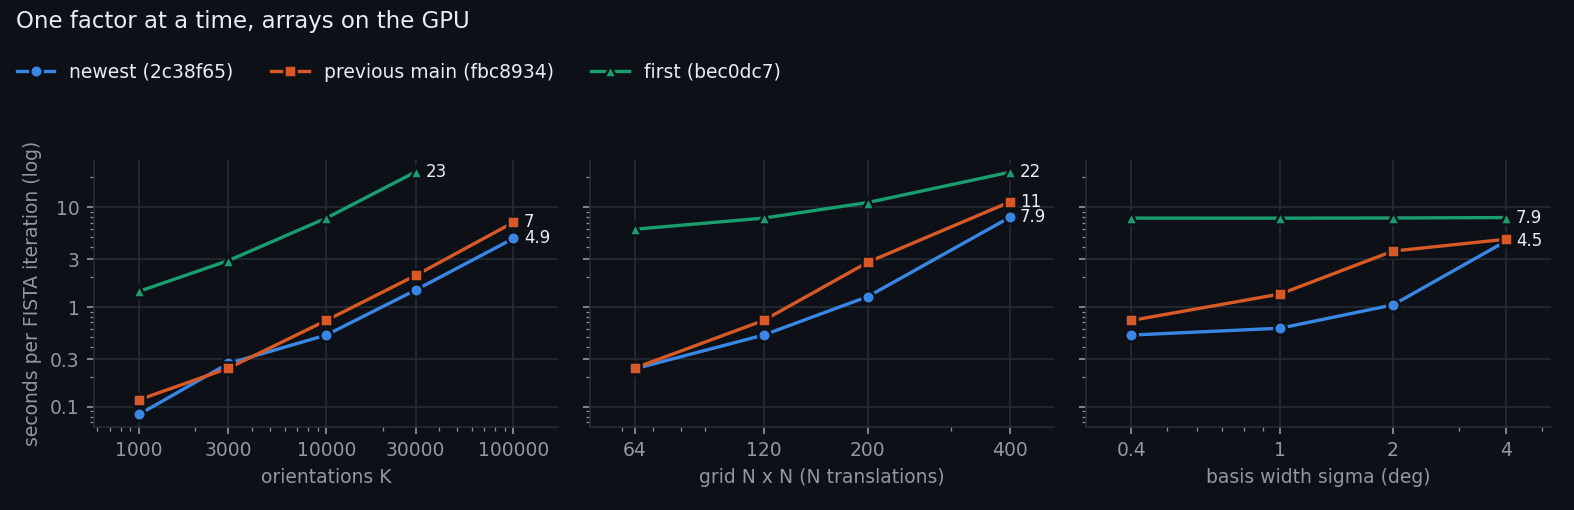
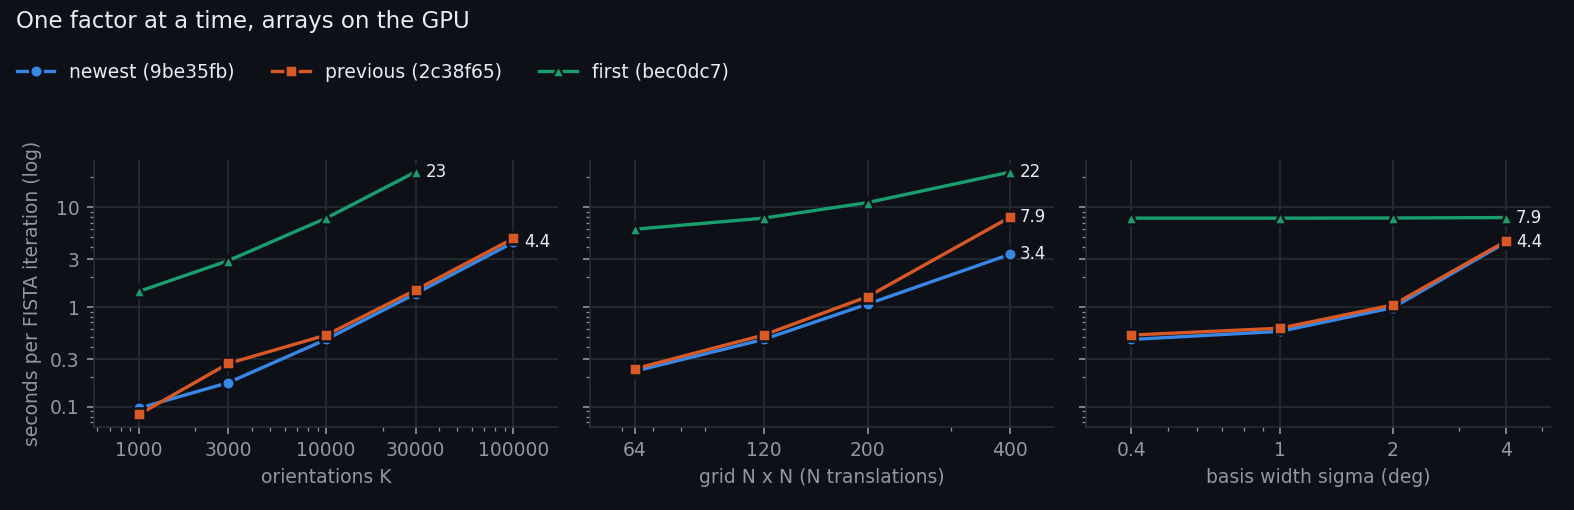
Benchmark results for 9be35fb (tiled projector), report compares newest, previous and first

diff --git a/benchmarks/report.py b/benchmarks/report.py
@@ -27,8 +27,9 @@ LABELS = {
     "fbc8934": "NumPy API, (K, Ny, Nx) layout",
     "2c38f65": "sparse PF matrix generated directly, faster sparse products, store what fits, "
                "Radon in slices, larger batches",
+    "9be35fb": "tiled Radon projections (image rows / sinogram bins staged in local memory); "
+               "at least 4 batches in the sparse modes",
 }
-SHORT = {"bec0dc7": "first (bec0dc7)", "fbc8934": "previous main (fbc8934)"}
 
 SWEEPS = [  # sweep, varied parameter, label, unit
     ("K", "K", "orientations K", ""),
@@ -155,8 +156,11 @@ def figures(rows, idx, versions):
     os.makedirs(FIG, exist_ok=True)
     shas = [v["sha"] for v in versions]
     newest = shas[-1]
-    picks = [newest] + [s for s in ("fbc8934", "bec0dc7") if s in shas and s != newest]  # newest: slot 1
-    name = lambda s: SHORT.get(s, f"newest ({s})" if s == newest else s)
+    picks = [newest] + ([shas[-2]] if len(shas) > 1 else []) + ([shas[0]] if len(shas) > 2 else [])  # newest: slot 1
+    role = {newest: "newest", shas[0]: "first"}
+    if len(shas) > 1:
+        role[shas[-2]] = "previous"
+    name = lambda s: f"{role.get(s, '')} ({s})".strip()
     num = FuncFormatter(lambda y, _: f"{y:g}")
 
     for mode_name, th in THEMES.items():

diff --git a/benchmarks/RESULTS.md b/benchmarks/RESULTS.md
@@ -10,6 +10,7 @@ Speed and peak memory of diffractom's texture-tomography reconstruction across v
 
 | version | date | what changed |
 |---|---|---|
+| `9be35fb` | 2026-10-02 | tiled Radon projections (image rows / sinogram bins staged in local memory); at least 4 batches in the sparse modes |
 | `2c38f65` | 2026-10-02 | sparse PF matrix generated directly, faster sparse products, store what fits, Radon in slices, larger batches |
 | `fbc8934` | 2026-10-02 | NumPy API, (K, Ny, Nx) layout |
 | `56fe181` | 2026-10-01 | FISTA coefficients streamed from host memory |
@@ -19,38 +20,38 @@ Speed and peak memory of diffractom's texture-tomography reconstruction across v
 | `5a402f0` | 2026-09-28 | sparse PF matrix (`pf_mode="auto"`) |
 | `bec0dc7` | 2026-09-28 | before the speed-ups: dense PF matrix only |
 
-## Newest (`2c38f65`) against the previous main (`fbc8934`)
+## Newest (`9be35fb`) against the previous main (`2c38f65`)
 
 Seconds per FISTA iteration; speed-up = previous / newest (below 1: slower).
 
 | case | mode | previous | newest | speed-up |
 |---|---|---:|---:|---:|
-| K = 1000, 120 x 120, sigma = 0.4 | gpu | 0.118 | 0.0839 | 1.40x |
-| K = 3000, 120 x 120, sigma = 0.4 | gpu | 0.244 | 0.272 | **0.90x** (slower) |
-| K = 10000, 64 x 64, sigma = 0.4 | gpu | 0.245 | 0.241 | 1.02x |
-| K = 10000, 120 x 120, sigma = 0.4 | gpu | 0.733 | 0.523 | 1.40x |
-| K = 10000, 120 x 120, sigma = 1 | gpu | 1.35 | 0.613 | 2.20x |
-| K = 10000, 120 x 120, sigma = 2 | gpu | 3.63 | 1.05 | 3.46x |
-| K = 10000, 120 x 120, sigma = 4 | gpu | 4.77 | 4.55 | 1.05x |
-| K = 10000, 200 x 200, sigma = 0.4 | gpu | 2.81 | 1.27 | 2.21x |
-| K = 10000, 400 x 400, sigma = 0.4 | gpu | 11.2 | 7.88 | 1.43x |
+| K = 1000, 120 x 120, sigma = 0.4 | gpu | 0.0839 | 0.0969 | **0.87x** (slower) |
+| K = 3000, 120 x 120, sigma = 0.4 | gpu | 0.272 | 0.175 | 1.56x |
+| K = 10000, 64 x 64, sigma = 0.4 | gpu | 0.241 | 0.228 | 1.06x |
+| K = 10000, 120 x 120, sigma = 0.4 | gpu | 0.523 | 0.473 | 1.11x |
+| K = 10000, 120 x 120, sigma = 1 | gpu | 0.613 | 0.57 | 1.07x |
+| K = 10000, 120 x 120, sigma = 2 | gpu | 1.05 | 0.985 | 1.07x |
+| K = 10000, 120 x 120, sigma = 4 | gpu | 4.55 | 4.43 | 1.03x |
+| K = 10000, 200 x 200, sigma = 0.4 | gpu | 1.27 | 1.07 | 1.19x |
+| K = 10000, 400 x 400, sigma = 0.4 | gpu | 7.88 | 3.36 | 2.35x |
 | K = 10000, 600 x 600, sigma = 0.4 | gpu | *array > largest GPU buffer* | *array > largest GPU buffer* |  |
-| K = 30000, 120 x 120, sigma = 0.4 | gpu | 2.07 | 1.48 | 1.40x |
-| K = 100000, 120 x 120, sigma = 0.4 | gpu | 7.05 | 4.86 | 1.45x |
-| K = 100000, 120 x 120, sigma = 1 | gpu | 47.3 | 7.32 | 6.46x |
-| K = 1000, 120 x 120, sigma = 0.4 | stream | 0.282 | 0.372 | **0.76x** (slower) |
-| K = 3000, 120 x 120, sigma = 0.4 | stream | 0.425 | 0.496 | **0.86x** (slower) |
-| K = 10000, 64 x 64, sigma = 0.4 | stream | 0.486 | 0.405 | 1.20x |
-| K = 10000, 120 x 120, sigma = 0.4 | stream | 0.974 | 0.891 | 1.09x |
-| K = 10000, 120 x 120, sigma = 1 | stream | 1.53 | 1.02 | 1.51x |
-| K = 10000, 120 x 120, sigma = 2 | stream | 3.77 | 1.29 | 2.91x |
-| K = 10000, 120 x 120, sigma = 4 | stream | 4.93 | 4.85 | 1.02x |
-| K = 10000, 200 x 200, sigma = 0.4 | stream | 3.4 | 2.13 | 1.59x |
-| K = 10000, 400 x 400, sigma = 0.4 | stream | 12.7 | 10.0 | 1.27x |
-| K = 10000, 600 x 600, sigma = 0.4 | stream | 26.4 | 24.9 | 1.06x |
-| K = 30000, 120 x 120, sigma = 0.4 | stream | 2.58 | 2.06 | 1.26x |
-| K = 100000, 120 x 120, sigma = 0.4 | stream | 8.12 | 6.24 | 1.30x |
-| K = 100000, 120 x 120, sigma = 1 | stream | 48.7 | 7.58 | 6.42x |
+| K = 30000, 120 x 120, sigma = 0.4 | gpu | 1.48 | 1.36 | 1.09x |
+| K = 100000, 120 x 120, sigma = 0.4 | gpu | 4.86 | 4.44 | 1.10x |
+| K = 100000, 120 x 120, sigma = 1 | gpu | 7.32 | 6.94 | 1.06x |
+| K = 1000, 120 x 120, sigma = 0.4 | stream | 0.372 | 0.271 | 1.37x |
+| K = 3000, 120 x 120, sigma = 0.4 | stream | 0.496 | 0.439 | 1.13x |
+| K = 10000, 64 x 64, sigma = 0.4 | stream | 0.405 | 0.39 | 1.04x |
+| K = 10000, 120 x 120, sigma = 0.4 | stream | 0.891 | 0.836 | 1.07x |
+| K = 10000, 120 x 120, sigma = 1 | stream | 1.02 | 0.889 | 1.14x |
+| K = 10000, 120 x 120, sigma = 2 | stream | 1.29 | 1.23 | 1.05x |
+| K = 10000, 120 x 120, sigma = 4 | stream | 4.85 | 4.64 | 1.04x |
+| K = 10000, 200 x 200, sigma = 0.4 | stream | 2.13 | 1.94 | 1.10x |
+| K = 10000, 400 x 400, sigma = 0.4 | stream | 10.0 | 5.31 | 1.89x |
+| K = 10000, 600 x 600, sigma = 0.4 | stream | 24.9 | 10.9 | 2.27x |
+| K = 30000, 120 x 120, sigma = 0.4 | stream | 2.06 | 1.97 | 1.05x |
+| K = 100000, 120 x 120, sigma = 0.4 | stream | 6.24 | 5.72 | 1.09x |
+| K = 100000, 120 x 120, sigma = 1 | stream | 7.58 | 7.2 | 1.05x |
 
 ## Every version on the base case
 
@@ -72,12 +73,13 @@ Seconds per FISTA iteration; the fastest version per column in bold; * the base 
 
 | version | 1000 | 3000 | 10000 * | 30000 | 100000 |
 |---|---:|---:|---:|---:|---:|
-| `2c38f65` | **0.0839** | 0.272 | **0.523** | **1.48** | **4.86** |
+| `9be35fb` | 0.0969 | **0.175** | **0.473** | **1.36** | **4.44** |
+| `2c38f65` | **0.0839** | 0.272 | 0.523 | 1.48 | 4.86 |
 | `fbc8934` | 0.118 | 0.244 | 0.733 | 2.07 | 7.05 |
 | `56fe181` | 0.116 | 0.25 | 0.736 | 2.07 | 7.01 |
 | `18a7a06` | 0.116 | 0.319 | 0.737 | 2.09 | 7.07 |
 | `cce2840` | 0.119 | 0.25 | 0.749 | 2.1 | 47.3 |
-| `2b2b9b5` | 0.113 | **0.236** | 0.715 | 2.01 | 47.3 |
+| `2b2b9b5` | 0.113 | 0.236 | 0.715 | 2.01 | 47.3 |
 | `5a402f0` | 1.19 | 1.39 | 2 | 4.99 | 15.4 |
 | `bec0dc7` | 1.43 | 2.91 | 7.77 | 22.5 | *> 5 min* |
 
@@ -85,12 +87,13 @@ Seconds per FISTA iteration; the fastest version per column in bold; * the base 
 
 | version | 64 | 120 * | 200 | 400 |
 |---|---:|---:|---:|---:|
-| `2c38f65` | 0.241 | **0.523** | **1.27** | **7.88** |
+| `9be35fb` | **0.228** | **0.473** | **1.07** | **3.36** |
+| `2c38f65` | 0.241 | 0.523 | 1.27 | 7.88 |
 | `fbc8934` | 0.245 | 0.733 | 2.81 | 11.2 |
 | `56fe181` | 0.288 | 0.736 | 2.81 | 11.2 |
 | `18a7a06` | 0.25 | 0.737 | 2.83 | 11.3 |
 | `cce2840` | 0.252 | 0.749 | 2.84 | 18.7 |
-| `2b2b9b5` | **0.235** | 0.715 | 2.79 | 18.7 |
+| `2b2b9b5` | 0.235 | 0.715 | 2.79 | 18.7 |
 | `5a402f0` | 0.834 | 2 | 4.45 | 14.5 |
 | `bec0dc7` | 6.01 | 7.77 | 11.1 | 22.4 |
 
@@ -98,7 +101,8 @@ Seconds per FISTA iteration; the fastest version per column in bold; * the base 
 
 | version | 0.4 deg * | 1 deg | 2 deg | 4 deg |
 |---|---:|---:|---:|---:|
-| `2c38f65` | **0.523** | **0.613** | **1.05** | **4.55** |
+| `9be35fb` | **0.473** | **0.57** | **0.985** | **4.43** |
+| `2c38f65` | 0.523 | 0.613 | 1.05 | 4.55 |
 | `fbc8934` | 0.733 | 1.35 | 3.63 | 4.77 |
 | `56fe181` | 0.736 | 1.34 | 3.6 | 4.73 |
 | `18a7a06` | 0.737 | 1.35 | 3.62 | 4.77 |
@@ -120,21 +124,24 @@ Seconds per FISTA iteration; the fastest version per column in bold; * the base 
 
 | version | 1000 | 3000 | 10000 * | 30000 | 100000 |
 |---|---:|---:|---:|---:|---:|
-| `2c38f65` | 0.372 | 0.496 | **0.891** | **2.06** | **6.24** |
-| `fbc8934` | **0.282** | **0.425** | 0.974 | 2.58 | 8.12 |
+| `9be35fb` | **0.271** | 0.439 | **0.836** | **1.97** | **5.72** |
+| `2c38f65` | 0.372 | 0.496 | 0.891 | 2.06 | 6.24 |
+| `fbc8934` | 0.282 | **0.425** | 0.974 | 2.58 | 8.12 |
 
 **grid N x N (N translations)** (K = 10000, sigma = 0.4)
 
 | version | 64 | 120 * | 200 | 400 |
 |---|---:|---:|---:|---:|
-| `2c38f65` | **0.405** | **0.891** | **2.13** | **10.0** |
+| `9be35fb` | **0.39** | **0.836** | **1.94** | **5.31** |
+| `2c38f65` | 0.405 | 0.891 | 2.13 | 10.0 |
 | `fbc8934` | 0.486 | 0.974 | 3.4 | 12.7 |
 
 **basis width sigma** (K = 10000, N = 120)
 
 | version | 0.4 deg * | 1 deg | 2 deg | 4 deg |
 |---|---:|---:|---:|---:|
-| `2c38f65` | **0.891** | **1.02** | **1.29** | **4.85** |
+| `9be35fb` | **0.836** | **0.889** | **1.23** | **4.64** |
+| `2c38f65` | 0.891 | 1.02 | 1.29 | 4.85 |
 | `fbc8934` | 0.974 | 1.53 | 3.77 | 4.93 |
 
 ## Memory
@@ -148,7 +155,8 @@ Seconds per FISTA iteration; the fastest version per column in bold; * the base 
 
 | version | 1000 | 3000 | 10000 * | 30000 | 100000 |
 |---|---:|---:|---:|---:|---:|
-| `2c38f65` | **2.4** | 2.8 | **4.4** | **9.0** | **25.1** |
+| `9be35fb` | **2.2** | 2.8 | **4.4** | **9.0** | **25.1** |
+| `2c38f65` | 2.4 | 2.8 | **4.4** | **9.0** | **25.1** |
 | `fbc8934` | 2.4 | **2.8** | 4.5 | 9.7 | 27.6 |
 | `56fe181` | 2.4 | **2.8** | 4.5 | 9.7 | 27.6 |
 | `18a7a06` | 2.4 | 2.9 | 5.1 | 9.7 | 33.0 |
@@ -161,6 +169,7 @@ Seconds per FISTA iteration; the fastest version per column in bold; * the base 
 
 | version | 1000 | 3000 | 10000 * | 30000 | 100000 |
 |---|---:|---:|---:|---:|---:|
+| `9be35fb` | 1.3 | 1.7 | 2.8 | 6.1 | 17.8 |
 | `2c38f65` | **1.3** | **1.7** | **2.8** | 6.2 | 17.8 |
 | `fbc8934` | 1.4 | 1.8 | 3.1 | 6.9 | 20.2 |
 | `56fe181` | 1.4 | 1.8 | 3.1 | 6.9 | 20.2 |
@@ -174,15 +183,17 @@ Seconds per FISTA iteration; the fastest version per column in bold; * the base 
 
 | version | 1000 | 3000 | 10000 * | 30000 | 100000 |
 |---|---:|---:|---:|---:|---:|
+| `9be35fb` | **2.3** | 2.8 | 3.6 | **4.9** | **9.7** |
 | `2c38f65` | 2.8 | 3.1 | 3.6 | **4.9** | **9.7** |
-| `fbc8934` | **2.4** | **2.6** | **3.2** | 5.2 | 11.9 |
+| `fbc8934` | 2.4 | **2.6** | **3.2** | 5.2 | 11.9 |
 
 **Peak host memory (GiB), streamed mode, orientations K** (N = 120, sigma = 0.4)
 
 | version | 1000 | 3000 | 10000 * | 30000 | 100000 |
 |---|---:|---:|---:|---:|---:|
-| `2c38f65` | **2.0** | 2.2 | 3.0 | **5.3** | **13.1** |
-| `fbc8934` | 2.1 | **2.1** | **2.9** | 5.7 | 15.2 |
+| `9be35fb` | **2.0** | **2.1** | 3.0 | 5.3 | 13.1 |
+| `2c38f65` | 2.0 | 2.2 | 3.0 | **5.3** | **13.1** |
+| `fbc8934` | 2.1 | 2.1 | **2.9** | 5.7 | 15.2 |
 
 ## Larger problems
 
@@ -190,6 +201,7 @@ Seconds per FISTA iteration (and how the PF matrix was applied: dense; sparse wi
 
 | version | K = 10000, 600 x 600, sigma = 0.4, gpu | K = 10000, 600 x 600, sigma = 0.4, stream | K = 100000, 120 x 120, sigma = 1, gpu | K = 100000, 120 x 120, sigma = 1, stream |
 |---|---:|---:|---:|---:|
+| `9be35fb` | *array > largest GPU buffer* | 10.9 (sparse, both) | 6.94 (generated, adjoint, 69 of 98 batches) | 7.2 (sparse, adjoint) |
 | `2c38f65` | *array > largest GPU buffer* | 24.9 (sparse, both) | 7.32 (generated, adjoint, 69 of 98 batches) | 7.58 (sparse, adjoint) |
 | `fbc8934` | *array > largest GPU buffer* | 26.4 (sparse) | 47.3 (dense) | 48.7 (dense) |
 
@@ -199,6 +211,32 @@ Seconds per FISTA iteration (and how the PF matrix was applied: dense; sparse wi
 
 | version | mode | K | N | sigma | status | PF | build (s) | forward (s) | adjoint (s) | FISTA / it (s) | GPU (GiB) | host (GiB) |
 |---|---|---:|---:|---:|---|---|---:|---:|---:|---:|---:|---:|
+| `9be35fb` | gpu | 1000 | 120 | 0.4 | ok | sparse, both | 1.44 | 0.06 | 0.0274 | 0.0969 | 2.24 | 1.34 |
+| `9be35fb` | gpu | 3000 | 120 | 0.4 | ok | sparse, both | 1.32 | 0.105 | 0.0592 | 0.175 | 2.77 | 1.67 |
+| `9be35fb` | gpu | 10000 | 64 | 0.4 | ok | sparse, both | 1.79 | 0.13 | 0.0829 | 0.228 | 2.4 | 1.3 |
+| `9be35fb` | gpu | 10000 | 120 | 0.4 | ok | sparse, both | 1.78 | 0.267 | 0.194 | 0.473 | 4.43 | 2.83 |
+| `9be35fb` | gpu | 10000 | 120 | 1 | ok | sparse, both | 2.04 | 0.303 | 0.244 | 0.57 | 7.18 | 2.83 |
+| `9be35fb` | gpu | 10000 | 120 | 2 | ok | sparse, both | 2.45 | 0.514 | 0.453 | 0.985 | 17.2 | 2.83 |
+| `9be35fb` | gpu | 10000 | 120 | 4 | ok | dense | 1.34 | 2.18 | 2.2 | 4.43 | 5.6 | 2.84 |
+| `9be35fb` | gpu | 10000 | 200 | 0.4 | ok | sparse, both | 1.55 | 0.57 | 0.452 | 1.07 | 8.57 | 6.24 |
+| `9be35fb` | gpu | 10000 | 400 | 0.4 | ok | sparse, both | 1.71 | 1.9 | 1.28 | 3.36 | 25.0 | 21.0 |
+| `9be35fb` | gpu | 10000 | 600 | 0.4 | oom | generated, none | 1.98 |  |  |  | 0.297 | 4.53 |
+| `9be35fb` | gpu | 30000 | 120 | 0.4 | ok | sparse, both | 2.59 | 0.744 | 0.581 | 1.36 | 9.01 | 6.15 |
+| `9be35fb` | gpu | 100000 | 120 | 0.4 | ok | sparse, both | 5.68 | 2.35 | 1.9 | 4.44 | 25.1 | 17.8 |
+| `9be35fb` | gpu | 100000 | 120 | 1 | ok | generated, adjoint, 69 of 98 batches | 6.52 | 3.81 | 2.94 | 6.94 | 31.6 | 17.8 |
+| `9be35fb` | stream | 1000 | 120 | 0.4 | ok | sparse, both | 1.08 | 0.472 | 0.226 | 0.271 | 2.3 | 2.03 |
+| `9be35fb` | stream | 3000 | 120 | 0.4 | ok | sparse, both | 1.26 | 0.617 | 0.555 | 0.439 | 2.82 | 2.09 |
+| `9be35fb` | stream | 10000 | 64 | 0.4 | ok | sparse, both | 1.9 | 0.382 | 0.241 | 0.39 | 2.14 | 1.53 |
+| `9be35fb` | stream | 10000 | 120 | 0.4 | ok | sparse, both | 1.5 | 0.934 | 0.603 | 0.836 | 3.55 | 3.01 |
+| `9be35fb` | stream | 10000 | 120 | 1 | ok | sparse, both | 1.78 | 0.904 | 0.657 | 0.889 | 6.3 | 3 |
+| `9be35fb` | stream | 10000 | 120 | 2 | ok | sparse, both | 2.54 | 0.977 | 0.683 | 1.23 | 15.9 | 2.72 |
+| `9be35fb` | stream | 10000 | 120 | 4 | ok | dense | 1.36 | 2.58 | 2.4 | 4.64 | 4.38 | 2.69 |
+| `9be35fb` | stream | 10000 | 200 | 0.4 | ok | sparse, both | 1.55 | 2.15 | 1.44 | 1.94 | 6.11 | 6.24 |
+| `9be35fb` | stream | 10000 | 400 | 0.4 | ok | sparse, both | 1.82 | 3.83 | 2.8 | 5.31 | 10.7 | 17.5 |
+| `9be35fb` | stream | 10000 | 600 | 0.4 | ok | sparse, both | 2.01 | 8.09 | 5.14 | 10.9 | 15.2 | 34.7 |
+| `9be35fb` | stream | 30000 | 120 | 0.4 | ok | sparse, both | 3.13 | 1.38 | 0.992 | 1.97 | 4.92 | 5.28 |
+| `9be35fb` | stream | 100000 | 120 | 0.4 | ok | sparse, both | 5.78 | 2.92 | 2.3 | 5.72 | 9.69 | 13.1 |
+| `9be35fb` | stream | 100000 | 120 | 1 | ok | sparse, adjoint | 7.2 | 3.92 | 2.79 | 7.2 | 20.4 | 13.1 |
 | `2c38f65` | gpu | 1000 | 120 | 0.4 | ok | sparse, both | 1.2 | 0.0545 | 0.0205 | 0.0839 | 2.35 | 1.34 |
 | `2c38f65` | gpu | 3000 | 120 | 0.4 | ok | sparse, both | 1.18 | 0.107 | 0.0602 | 0.272 | 2.82 | 1.67 |
 | `2c38f65` | gpu | 10000 | 64 | 0.4 | ok | sparse, both | 1.5 | 0.127 | 0.0917 | 0.241 | 2.4 | 1.3 |
@@ -331,4 +369,4 @@ Seconds per FISTA iteration (and how the PF matrix was applied: dense; sparse wi
 
 </details>
 
-Results files: `2026-10-02_1026_A40_n-62-18-4.jsonl`, `2026-10-02_1251_A40_n-62-18-4.jsonl`, `2026-10-02_1310_A40_n-62-18-4.jsonl`
+Results files: `2026-10-02_1026_A40_n-62-18-4.jsonl`, `2026-10-02_1251_A40_n-62-18-4.jsonl`, `2026-10-02_1310_A40_n-62-18-4.jsonl`, `2026-10-02_1344_A40_n-62-18-4.jsonl`
